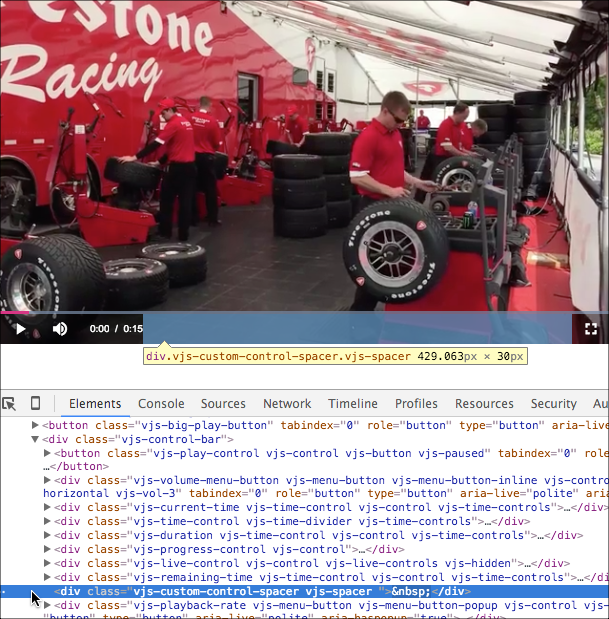
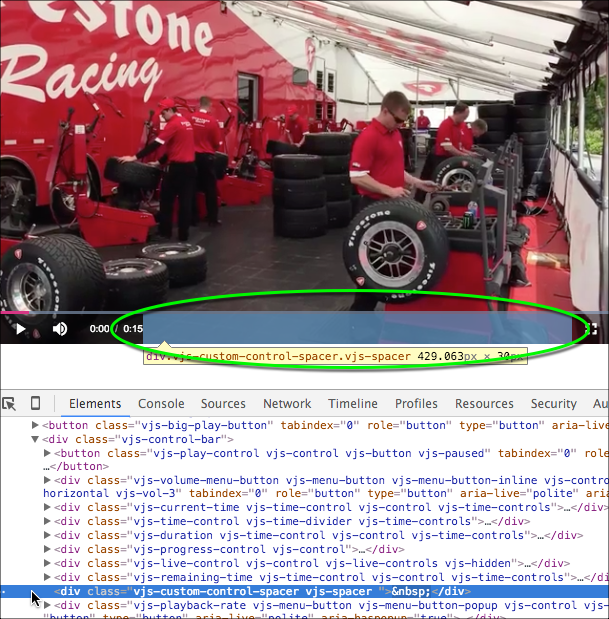
Added spacer info to customize doc

Changed region(s): [[0.156, 0.4604, 0.9672, 0.6139]]

diff --git a/en/perform/brightcove-player/guides/customize-appearance.html b/en/perform/brightcove-player/guides/customize-appearance.html
@@ -127,8 +127,8 @@
         <p><code data-gist-id="a84d9ce7fb1054d288b6" data-gist-hide-footer="true" data-gist-line="226-257" data-gist-highlight-line="238-240,247"></code></p>
       </div>
 
-      <div id="iconorder" class="section">
-        <h2>Controlbar icon order</h2>
+      <div id="iconmanipulation" class="section">
+        <h2>Controlbar icon manipulation</h2>
         <p>Control bar icon order determined by the order of the HTML <code>&lt;div&gt;</code>s in the parent controlbar <code>&lt;div&gt;</code>. Here you see the controlbar <code>&lt;div&gt;</code> with all of its children.</p>
         <div><img src="/en/video-cloud/brightcove-player/guides/assets/customize-appearance/elements-controlbar-div.png" alt="element on control bar"></div>
         <p>Generally, this is the approach to take when placing in icon in the controlbar:</p>
@@ -173,8 +173,17 @@
         <p>If you wish the icon to appear at the far right of the controlbar, you would replace the <code>insertBefore()</code> with  the <code>appendChild()</code> method, as shown here:</p>
         <p><code data-gist-id="a84d9ce7fb1054d288b6" data-gist-hide-footer="true" data-gist-line="343"></code></p>
         <p>An example of adding an icon (for downloading a file in this case) is shown in the <a href="../../brightcove-player/samples/download-video.html">Brightcove Player Sample: Download Video Plugin</a> document.</p>
-        <h3>Use the spacer</h3>
-        <div><img src="/en/video-cloud/brightcove-player/guides/assets/customize-appearance/spacer.png" alt="spacer in console"></div>        
+        <h3 id="spacer">Use the spacer</h3>
+        <p>Although the techniques above work for placing icons on the controlbar, it is possible they will not be compatible with other code that manipulates the controlbar. Also, you most likely would not want to abstract the code into a plugin for general reuse.</p>
+        <p>Weaknesses in the previous paragraph can be overcome by using the special <strong>spacer</strong> element inserted into the controlbar especially for adding icons. The drawback of the spacer is you do not have full control over where the icon can be placed, whereas you do using the techniques shown earlier in this section.</p>
+        <p>The spacer element is located in the controlbar between the time information on the left and the fullscreen icon on the right, as shown in the following screenshot (highlighted in the green oval). Note in the <strong>Elements</strong> section of the Dev Tools the element is defined an HTML <code>&lt;div&gt;</code>.</p>
+        <div><img src="/en/video-cloud/brightcove-player/guides/assets/customize-appearance/spacer.png" alt="spacer in console"></div>
+        <p>To place an icon in the spacer element, you use the following code, which is very similar to the code shown earlier in this section. The result of the code is shown in the screenshot which follows the code snippet.</p>
+        <p><code data-gist-id="a84d9ce7fb1054d288b6" data-gist-hide-footer="true" data-gist-line="351,352,359,360"></code></p>
+        <div><img src="/en/video-cloud/brightcove-player/guides/assets/customize-appearance/spacer-left.png" alt="spacer in console"></div>
+        <p>If you wish to place the icon on the right side of the spacer, another line of code needs to be used. The spacer layout is controlled by an HTML Flexbox. So adding a Flexbox style you can push the added icon to the right. The result of the code is shown in the screenshot which follows the code snippet.</p>
+        <p><code data-gist-id="a84d9ce7fb1054d288b6" data-gist-hide-footer="true" data-gist-line="353,354"></code></p>
+        <div><img src="/en/video-cloud/brightcove-player/guides/assets/customize-appearance/spacer-right.png" alt="spacer in console"></div>
       </div>
       <div id="specificity" class="section">
         <h2>CSS specificity</h2>

diff --git a/en/video-cloud/brightcove-player/guides/customize-appearance.html b/en/video-cloud/brightcove-player/guides/customize-appearance.html
@@ -127,8 +127,8 @@
         <p><code data-gist-id="a84d9ce7fb1054d288b6" data-gist-hide-footer="true" data-gist-line="226-257" data-gist-highlight-line="238-240,247"></code></p>
       </div>
 
-      <div id="iconorder" class="section">
-        <h2>Controlbar icon order</h2>
+      <div id="iconmanipulation" class="section">
+        <h2>Controlbar icon manipulation</h2>
         <p>Control bar icon order determined by the order of the HTML <code>&lt;div&gt;</code>s in the parent controlbar <code>&lt;div&gt;</code>. Here you see the controlbar <code>&lt;div&gt;</code> with all of its children.</p>
         <div><img src="/en/video-cloud/brightcove-player/guides/assets/customize-appearance/elements-controlbar-div.png" alt="element on control bar"></div>
         <p>Generally, this is the approach to take when placing in icon in the controlbar:</p>
@@ -173,8 +173,17 @@
         <p>If you wish the icon to appear at the far right of the controlbar, you would replace the <code>insertBefore()</code> with  the <code>appendChild()</code> method, as shown here:</p>
         <p><code data-gist-id="a84d9ce7fb1054d288b6" data-gist-hide-footer="true" data-gist-line="343"></code></p>
         <p>An example of adding an icon (for downloading a file in this case) is shown in the <a href="../../brightcove-player/samples/download-video.html">Brightcove Player Sample: Download Video Plugin</a> document.</p>
-        <h3>Use the spacer</h3>
-        <div><img src="/en/video-cloud/brightcove-player/guides/assets/customize-appearance/spacer.png" alt="spacer in console"></div>        
+        <h3 id="spacer">Use the spacer</h3>
+        <p>Although the techniques above work for placing icons on the controlbar, it is possible they will not be compatible with other code that manipulates the controlbar. Also, you most likely would not want to abstract the code into a plugin for general reuse.</p>
+        <p>Weaknesses in the previous paragraph can be overcome by using the special <strong>spacer</strong> element inserted into the controlbar especially for adding icons. The drawback of the spacer is you do not have full control over where the icon can be placed, whereas you do using the techniques shown earlier in this section.</p>
+        <p>The spacer element is located in the controlbar between the time information on the left and the fullscreen icon on the right, as shown in the following screenshot (highlighted in the green oval). Note in the <strong>Elements</strong> section of the Dev Tools the element is defined an HTML <code>&lt;div&gt;</code>.</p>
+        <div><img src="/en/video-cloud/brightcove-player/guides/assets/customize-appearance/spacer.png" alt="spacer in console"></div>
+        <p>To place an icon in the spacer element, you use the following code, which is very similar to the code shown earlier in this section. The result of the code is shown in the screenshot which follows the code snippet.</p>
+        <p><code data-gist-id="a84d9ce7fb1054d288b6" data-gist-hide-footer="true" data-gist-line="351,352,359,360"></code></p>
+        <div><img src="/en/video-cloud/brightcove-player/guides/assets/customize-appearance/spacer-left.png" alt="spacer in console"></div>
+        <p>If you wish to place the icon on the right side of the spacer, another line of code needs to be used. The spacer layout is controlled by an HTML Flexbox. So adding a Flexbox style you can push the added icon to the right. The result of the code is shown in the screenshot which follows the code snippet.</p>
+        <p><code data-gist-id="a84d9ce7fb1054d288b6" data-gist-hide-footer="true" data-gist-line="353,354"></code></p>
+        <div><img src="/en/video-cloud/brightcove-player/guides/assets/customize-appearance/spacer-right.png" alt="spacer in console"></div>
       </div>
       <div id="specificity" class="section">
         <h2>CSS specificity</h2>

diff --git a/en/perform/brightcove-player/guides/chaptered-video.html b/en/perform/brightcove-player/guides/chaptered-video.html
@@ -60,11 +60,31 @@
         <h2>Working sample</h2>
         <p>Let's start by looking at a working sample of chaptered video - start the video below and mouse over the
             <img src="./assets/chaptered-video/chapter-menu.png" alt="chapter menu">  icon to display the chapter menu:</p>
+<<<<<<< Updated upstream
         <div class="video-cloud-only">
+=======
+<<<<<<< HEAD
+=======
+        <div class="video-cloud-only">
+>>>>>>> origin/master
+>>>>>>> Stashed changes
             <div style="display: block; position: relative; max-width: 32em;"><div style="padding-top: 56.25%;"><video data-video-id="2026618970001" data-account="1752604059001" data-player="7a8a2bf7-6696-4dda-b31d-876a9cb1792a" data-embed="default" class="video-js" controls="" style="width: 100%; height: 100%; position: absolute; top: 0px; bottom: 0px; right: 0px; left: 0px;"></video>
 <script src="//players.brightcove.net/1752604059001/7a8a2bf7-6696-4dda-b31d-876a9cb1792a_default/index.min.js"></script></div></div>
         </div>
         <div class="perform-only">
+<<<<<<< Updated upstream
+=======
+<<<<<<< HEAD
+            <video
+              data-account="3676484086001"
+              data-player="df134dc9-c997-4464-a69c-e36acf59aef7"
+              data-embed="default"
+              class="video-js" controls>
+                  <track src="//solutions.brightcove.com/bcls/assets/vtt/sea-marvels-chapters.vtt" kind="chapters" label="Chapters" srclang="en">
+              </video>
+            <script src="//players.brightcove.net/3676484086001/df134dc9-c997-4464-a69c-e36acf59aef7_default/index.min.js"></script>
+=======
+>>>>>>> Stashed changes
             <div style="display: block; position: relative; max-width: 32em;"><div style="padding-top: 56.25%;"><video data-account="3676484086001"
 data-player="df134dc9-c997-4464-a69c-e36acf59aef7"
 data-embed="default"
@@ -74,6 +94,10 @@ style="width: 100%; height: 100%; position: absolute; top: 0px; bottom: 0px; rig
     <track src="./assets/chaptered-video/sea-marvels-chapters.vtt" kind="chapters" srclang="en" default="default" label="Chapters" />
 </video>
 <script src="//players.brightcove.net/3676484086001/df134dc9-c997-4464-a69c-e36acf59aef7_default/index.min.js"></script></div></div>
+<<<<<<< Updated upstream
+=======
+>>>>>>> origin/master
+>>>>>>> Stashed changes
         </div>
       </div>
 
